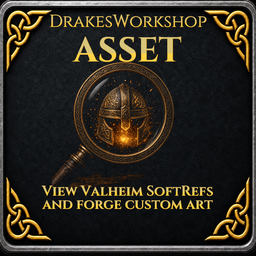
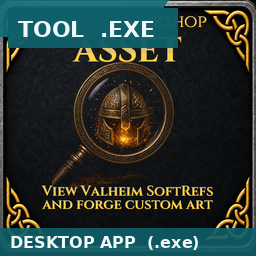
Fix Tools zip PDB and distinguish from Runtime
Ship DrakesAssetForge.pdb beside the single-file exe (Hexium/Gale
requires it for the native host). Rename the store package to
DrakesAssetForgeTool with a TOOL/.EXE-badged icon so it is obvious
this is the authoring program, not DrakeMods-DrakesForgeRuntime.

Changed region(s): [[0.0, 0.0, 0.7188, 0.1875], [0.0, 0.875, 1.0, 1.0]]

diff --git a/Forge/App/thunderstore/README.md b/Forge/App/thunderstore/README.md
@@ -1,11 +1,13 @@
-# Drakes Asset Forge (Tool)
+# Drakes Asset Forge Tool (.exe)
 
-**This package is the desktop TOOL** — the Windows app authors use to create Valheim items,
-build pieces, reskins, and data packs. It is **not** a gameplay mod by itself.
+**This package is the desktop TOOL** — the Windows program (`DrakesAssetForge.exe`) authors use to
+create Valheim items, build pieces, reskins, and data packs.
 
-Ship content made with this tool as separate Thunderstore / Hexium packages (data packs that
-need [Forge Runtime](#related-packages), or your own C# mods). Players who only want your finished
-content install those packs — not this Tools package.
+It is **not** [Forge Runtime](#related-packages) and **not** a gameplay mod. Players who only want
+finished content install author packs (plus Runtime), not this Tools package.
+
+Hexium / Thunderstore identity: **`DrakeMods-DrakesAssetForgeTool`** (distinct from
+`DrakeMods-DrakesForgeRuntime`).
 
 ![Browse Valheim](screenshots/1-browse.png)
 
@@ -26,25 +28,28 @@ publish a tiny data pack.
 
 1. Install this **Tools** package into a Valheim profile (BepInEx + Jotunn come with the usual
    setup; **Forge Runtime** is listed as a dependency so push/test works in that profile).
-2. Open the profile folder → `BepInEx/plugins/DrakeMods-DrakesAssetForge/`.
-3. Run **`DrakesAssetForge.exe`** (self-contained Windows exe — not a BepInEx plugin DLL).
+2. Open the profile folder → `BepInEx/plugins/DrakeMods-DrakesAssetForgeTool/`.
+3. Run **`DrakesAssetForge.exe`**. Keep **`DrakesAssetForge.pdb`** next to the exe (required by
+   the self-contained native host / Hexium packaging checks).
 4. In ⚙ Settings, point the app at Valheim and this same mod-manager profile.
 
 You still need Valheim installed on the machine (the app reads it; it never changes game files).
 
 ## What is in this package
 
-- `DrakesAssetForge.exe` — the Forge tool (self-contained; no separate .NET install)
-- Store metadata: `manifest.json`, `icon.png` (256×256), this README, `CHANGELOG.md`
+- `DrakesAssetForge.exe` — the Forge tool (self-contained Windows app; no separate .NET install)
+- `DrakesAssetForge.pdb` — required sidecar next to the exe
+- Store metadata: `manifest.json` (`name`: `DrakesAssetForgeTool`), `icon.png` (TOOL / .EXE badge),
+  this README, `CHANGELOG.md`
 - Screenshots under `screenshots/`
-- Bundled `runtime/` + `forge-src/` helpers the app uses for install/export (same as the portable zip)
+- Bundled `runtime/` + `forge-src/` helpers the app uses for install/export
 
 ## Related packages
 
-| Package | Role | Links |
+| Package | Role | Identity |
 |---|---|---|
-| **Drakes Asset Forge** (this) | Authoring **tool** (exe) | [GitHub releases (app)](https://github.com/drakethos/DrakesAssetForge/releases?q=app-v) · [source](https://github.com/drakethos/DrakesAssetForge) |
-| **Drakes Forge Runtime** | BepInEx mod that **loads** Forge data packs for players | [GitHub releases (runtime)](https://github.com/drakethos/DrakesAssetForge/releases?q=runtime-v) · package `DrakeMods-DrakesForgeRuntime` |
+| **Drakes Asset Forge Tool** (this) | Authoring **program** (`.exe`) | `DrakeMods-DrakesAssetForgeTool` · [app releases](https://github.com/drakethos/DrakesAssetForge/releases?q=app-v) |
+| **Drakes Forge Runtime** | BepInEx mod that **loads** Forge data packs | `DrakeMods-DrakesForgeRuntime` · [runtime releases](https://github.com/drakethos/DrakesAssetForge/releases?q=runtime-v) |
 | **Data packs / content mods** | What you publish from the tool for players | Made in-app (Publish → data pack or C# / plain C#) |
 
 Forge Runtime is updated only when the loader itself changes — not on every Tools / app release.
@@ -53,7 +58,7 @@ This Tools package depends on the current published Runtime so profiles stay rea
 ## Portable zip (optional)
 
 GitHub Releases also attach `DrakesAssetForge-<version>-win-x64.zip` if you prefer to unzip the
-app outside a mod profile. Same exe either way:
+app outside a mod profile. Same exe + pdb either way:
 https://github.com/drakethos/DrakesAssetForge/releases
 
 ## Links

diff --git a/README.md b/README.md
@@ -132,7 +132,7 @@ One workflow, two release trains, picked by tag (version must match the project 
 
 | Tag | Builds | Publishes |
 |---|---|---|
-| `app-v0.2.1` | Portable win-x64 zip **and** Hexium/Gale **Tools** zip (`DrakeMods-DrakesAssetForge-…`, exe + icon + README/screenshots) | GitHub Release (draft); Hexium when `PUBLISH_HEXIUM` or `PUBLISH_HEXIUM_APP` is `true` |
+| `app-v0.2.1` | Portable win-x64 zip **and** Hexium/Gale **Tools** zip (`DrakeMods-DrakesAssetForgeTool-…`, exe + pdb + TOOL icon + README/screenshots) | GitHub Release (draft); Hexium when `PUBLISH_HEXIUM` or `PUBLISH_HEXIUM_APP` is `true` |
 | `runtime-v0.2.1` | `Forge/Runtime` Thunderstore package | GitHub Release (draft); Thunderstore when `PUBLISH_THUNDERSTORE=true`; Hexium only when `PUBLISH_HEXIUM_RUNTIME=true` (occasional — not tied to every Tools/app tag) |
 
 GitHub releases are created as **drafts**: check the notes and files on the Releases page, then press *Publish release*.
